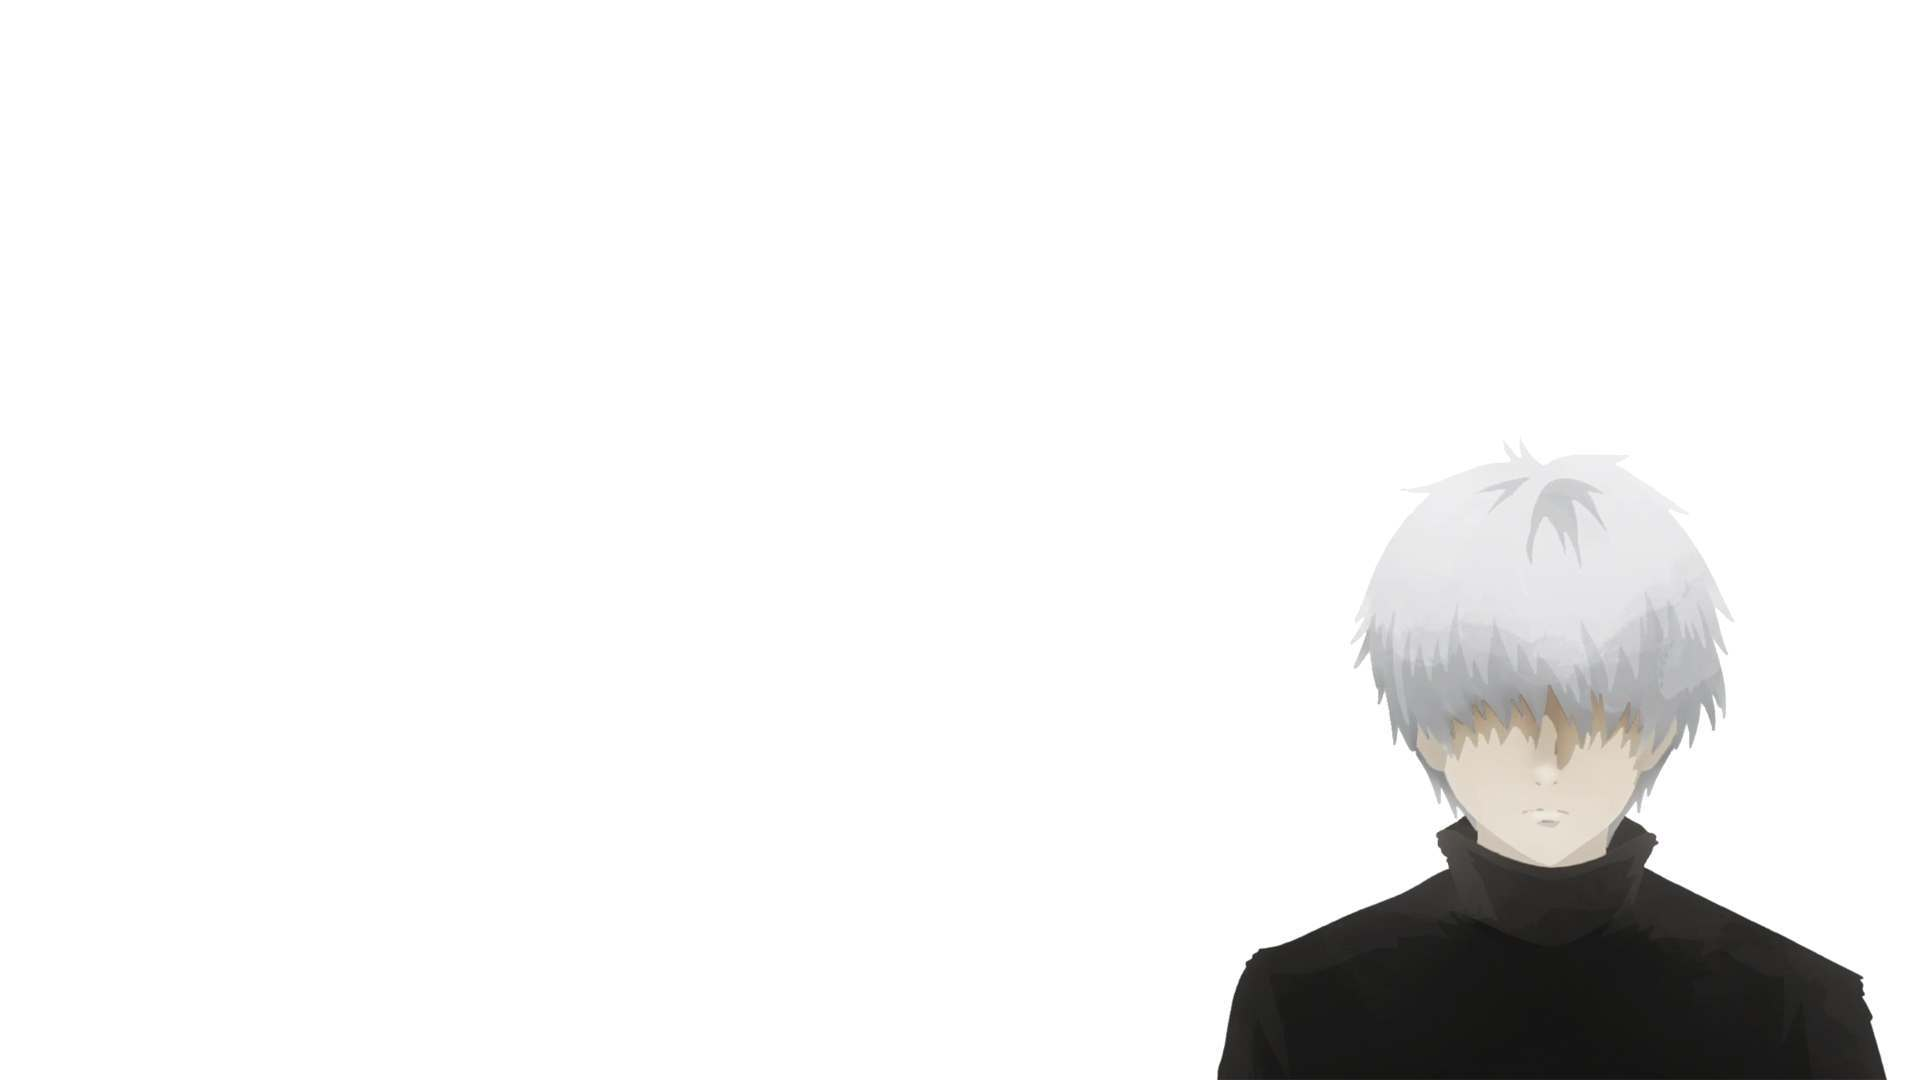
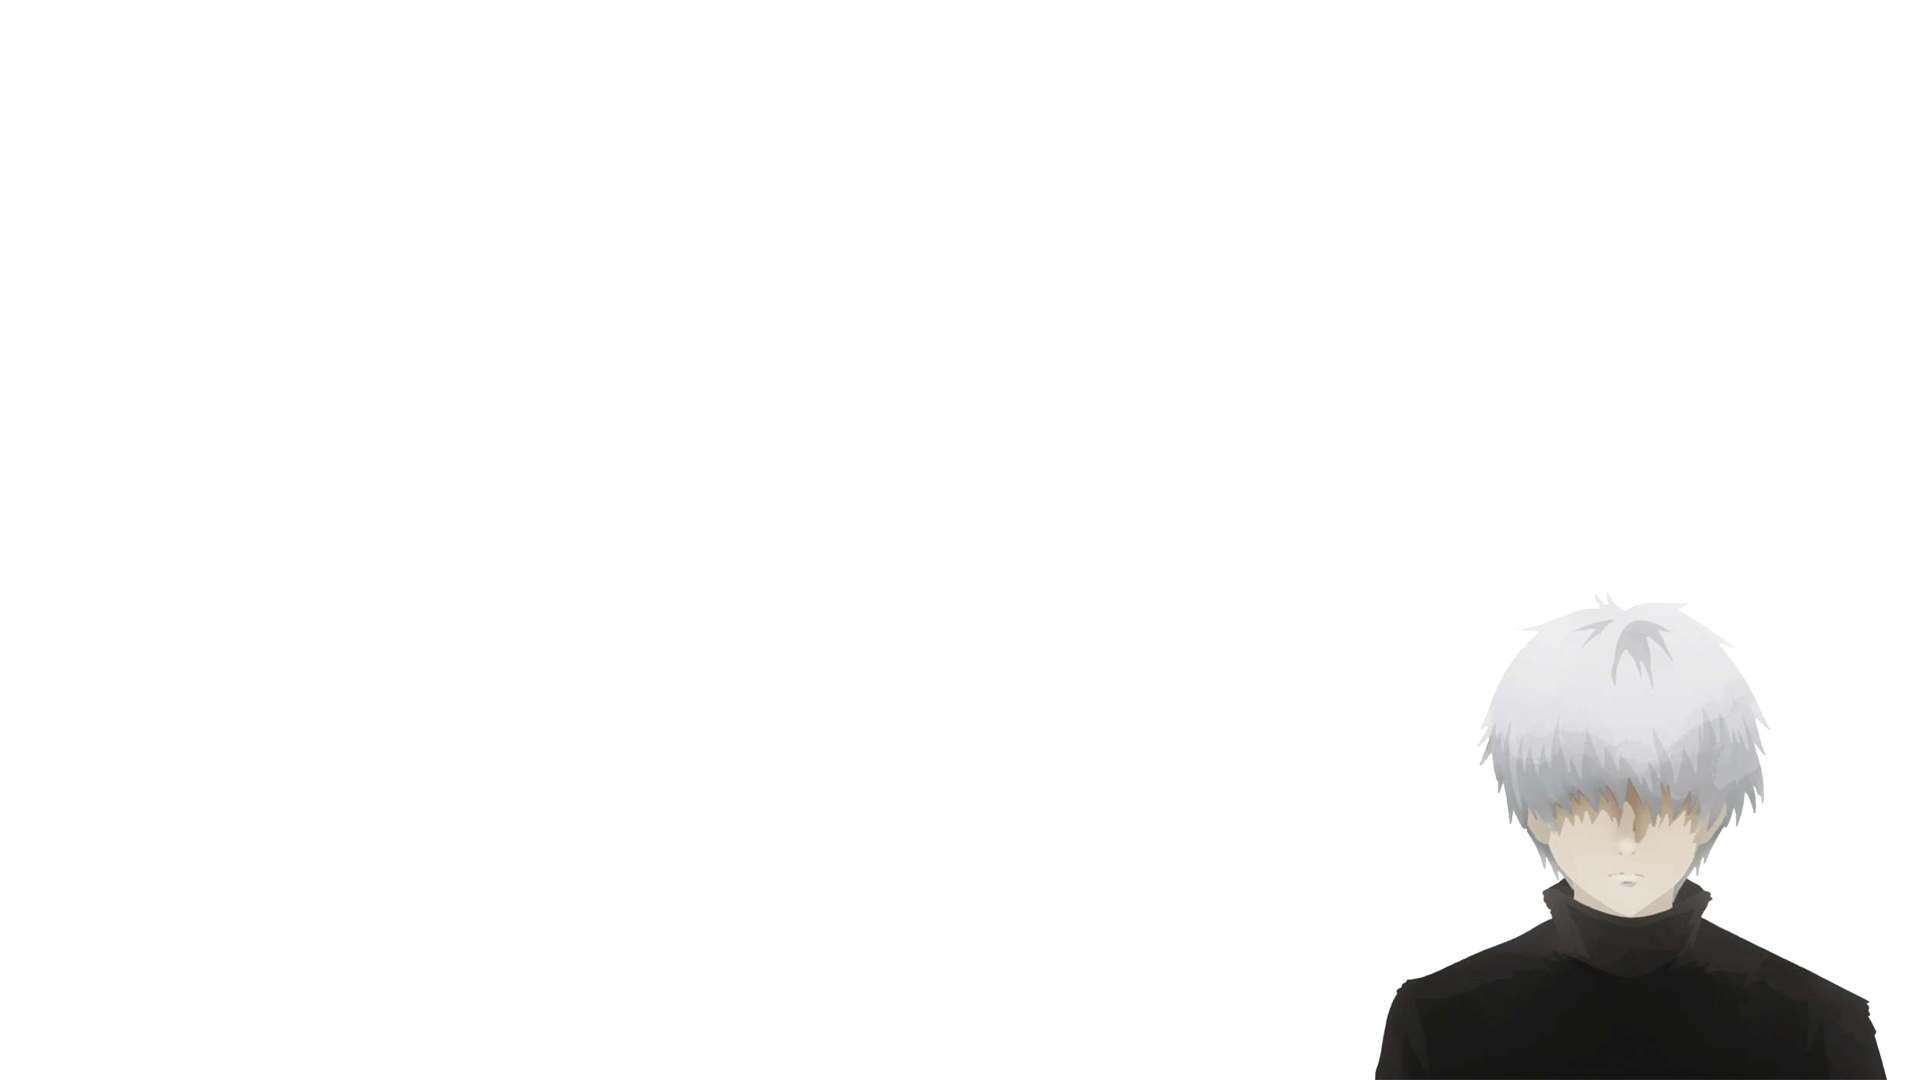
修改背景图

Changed region(s): [[0.625, 0.4278, 0.9375, 1.0], [0.9375, 0.8861, 0.9688, 0.9167]]

diff --git a/template/head.html b/template/head.html
@@ -53,10 +53,12 @@
                     <li class="dropdown dropdown-hover">
                         <a href="#" data-toggle="dropdown"><i class="icon icon-camera-retro"></i></a>
                         <ul class="dropdown-menu">
-                            <li><a href="javascript:void(0)" onclick="change('#ffffff')">白</a></li>
+                            <!--<li><a href="javascript:void(0)" onclick="change('#ffffff')">白</a></li>-->
                             <li><a href="javascript:void(0)" onclick="change('__IMG__/skin/skin1.jpg')">晓</a></li>
                             <li><a href="javascript:void(0)" onclick="change('__IMG__/skin/skin2.jpg')">伴</a></li>
                             <li><a href="javascript:void(0)" onclick="change('__IMG__/skin/skin3.jpg')">王</a></li>
+                            <li><a href="javascript:void(0)" onclick="change('__IMG__/skin/skin4.jpg')">零</a></li>
+                            <li><a href="javascript:void(0)" onclick="change('__IMG__/skin/skin5.jpg')">贰</a></li>
                         </ul>
                     </li>
                 </ul>
